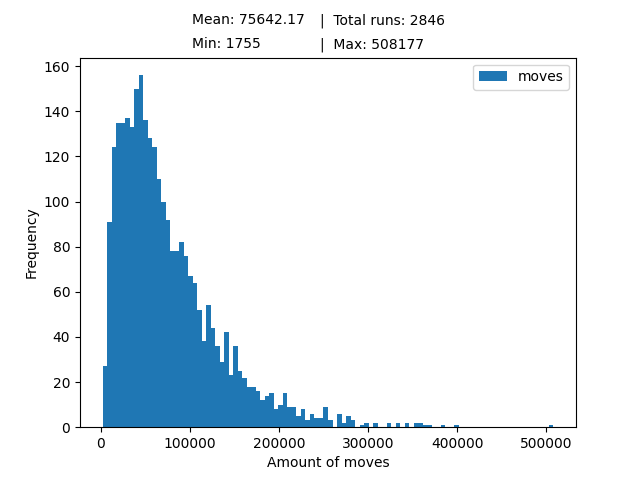
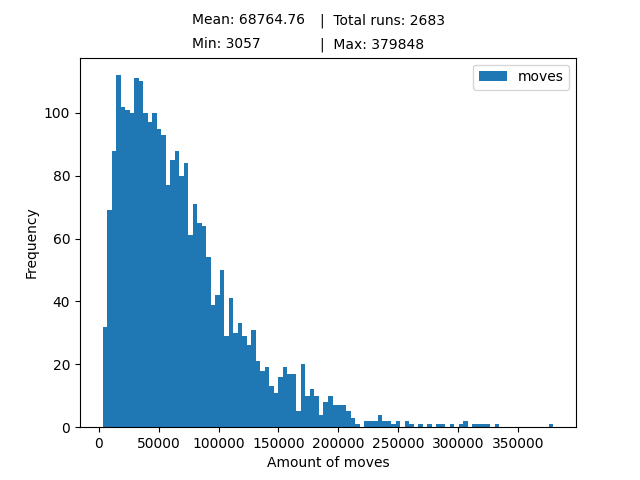
More experiments and results

diff --git a/code/main.py b/code/main.py
@@ -39,9 +39,9 @@ if __name__ == '__main__':
     # board = "6x6_2"
     # board = "6x6_3"
     # board = "9x9_4"
-    board = "9x9_5"
+    # board = "9x9_5"
     # board = "9x9_6"
-    # board = "12x12_7"
+    board = "12x12_7"
             
     if len(argv) > 3:   
         # Algorithms 
